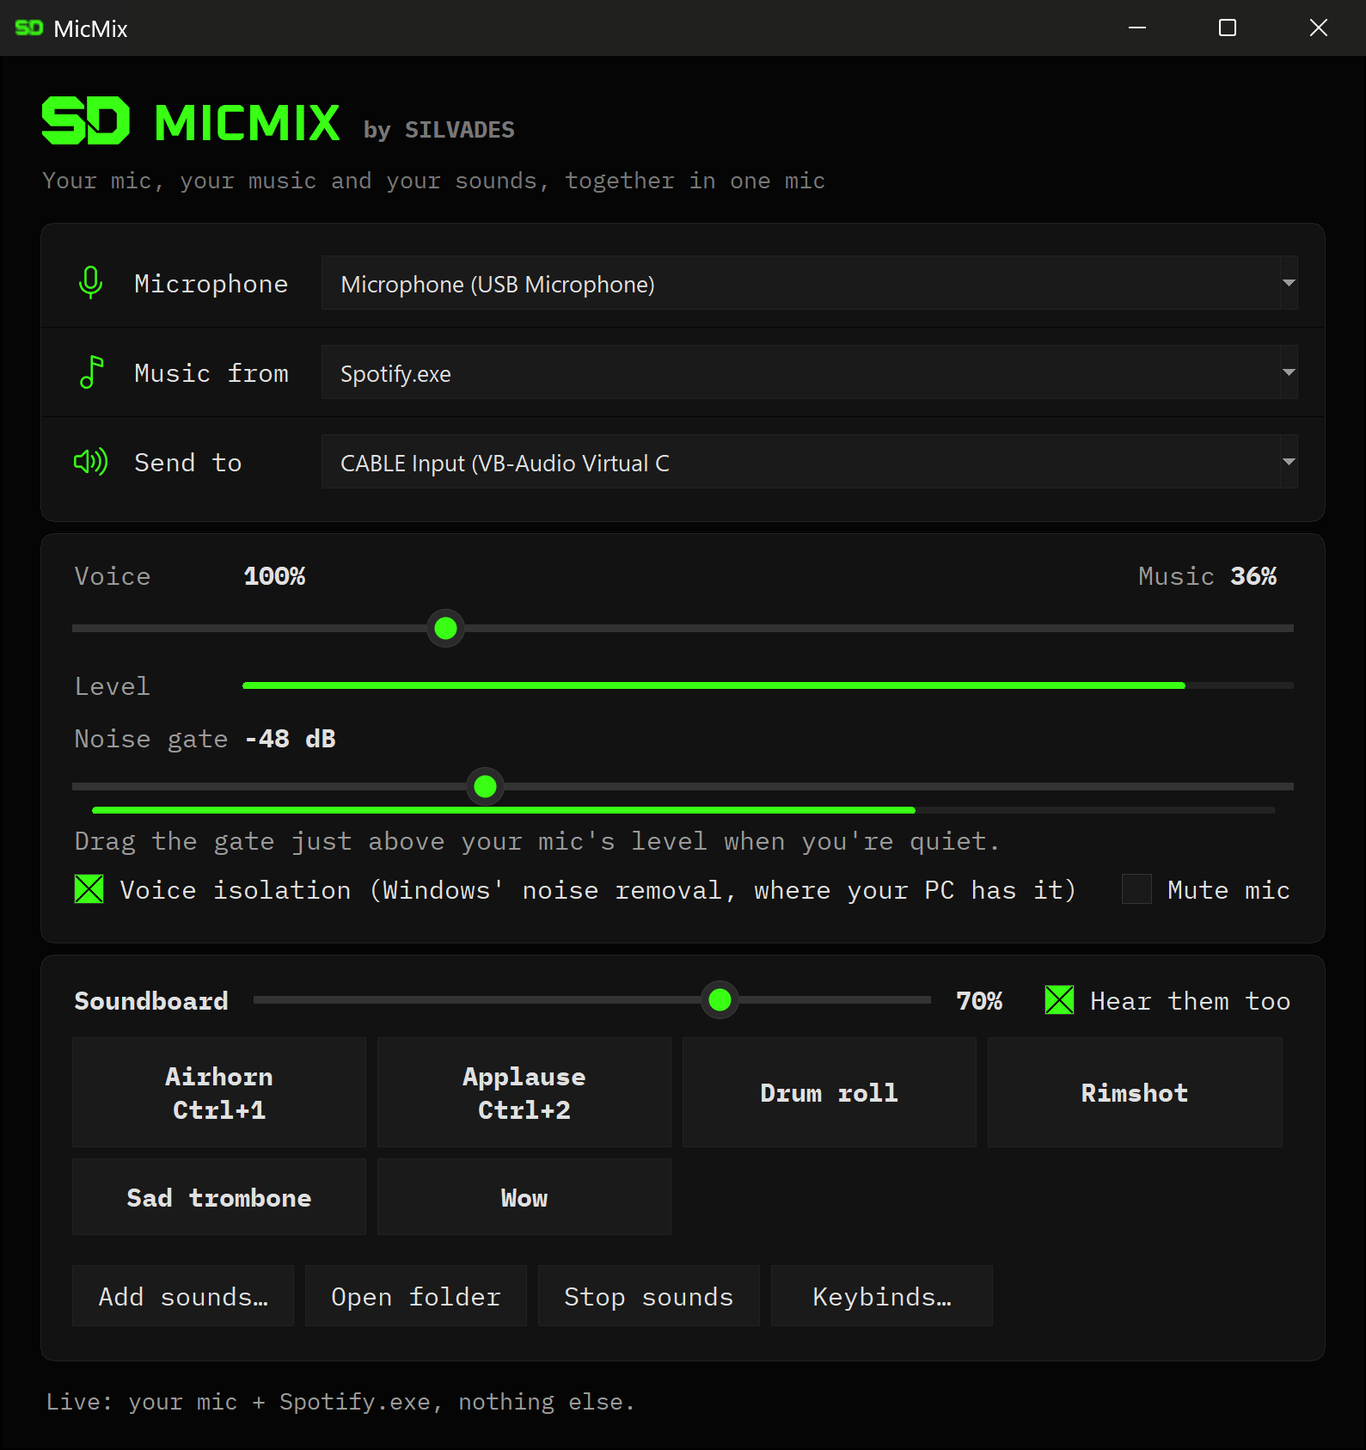
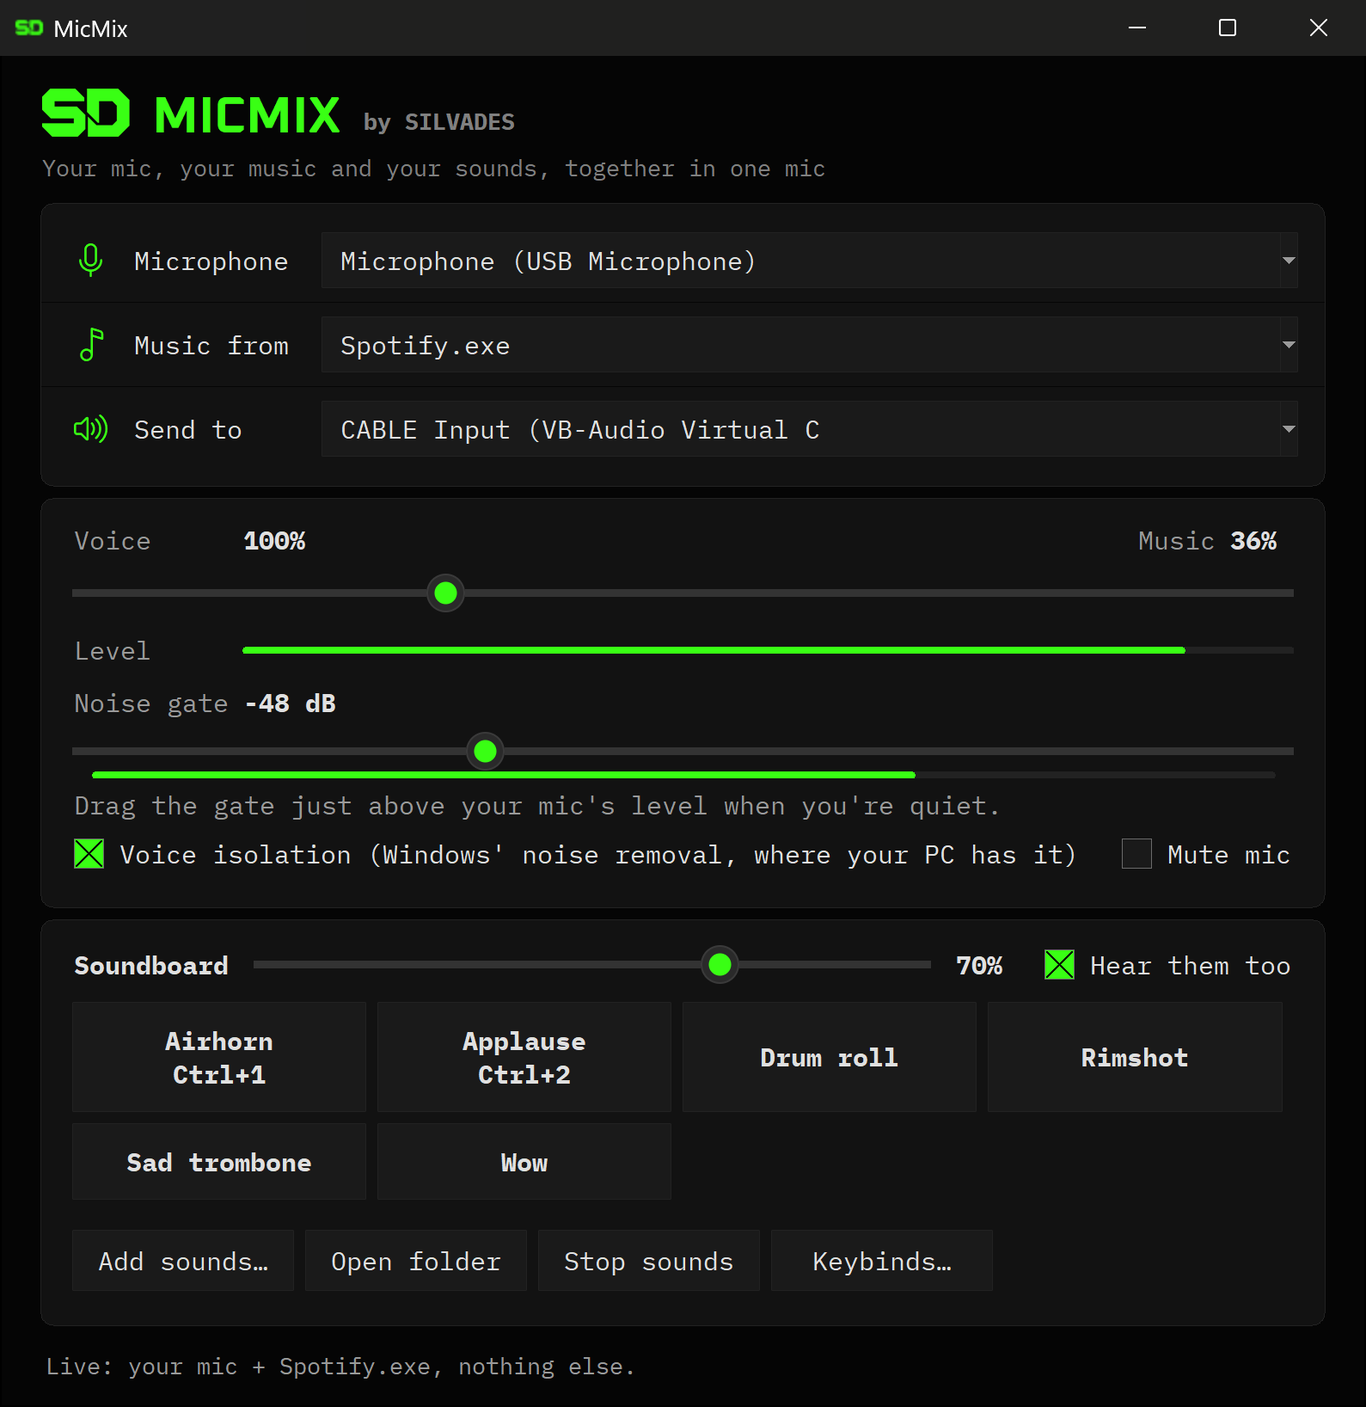
Final sweep: smooth sliders, a sturdier panel, music that comes back
Sliders
- A click on a slider's rail puts the thumb there and drags on from
  there. Tk stepped by 1 a click, which is the whole of a 0-1 slider,
  so it jumped to an end. Arrow keys now step 1% (Ctrl: 10%).
- The rail is one screen-wide image instead of a tiled 2 px one: a
  redraw takes ~2 ms instead of ~900 ms at 225%.

Sound
- When the Music from app closes, MicMix notices, says so, and takes
  its music in again a second or two after it starts (also when it
  wasn't running yet). The look runs off the sound thread.
- Music from = Send to (the cable became the default) drops the music
  and keeps the voice, instead of stopping everything.
- MicMix follows devices plugged in or out and Windows' default
  changing; unplugged picks stay picked and come back with the device.
- Stop sounds fades over one block instead of clicking.

Window, panel and tray
- Alt+F4 on the panel no longer wedges MicMix; Esc closes the panel;
  one error can no longer stop the 50 ms loop (keybinds, tray, Quit).
- The panel opens on the screen the icon is on, bottom-anchored, so it
  never shows under the taskbar first. Double-click the icon for the
  full window.
- The window keeps above the taskbar (fewer pad rows, moved up), and
  no longer flashes an empty box at start.
- Keybinds: rows no longer squeezed or cut off; Clear during Set no
  longer leaves a hidden capture armed.
- Dark scrollbars, visible checkbox edges, keyboard focus on checkboxes
[…]

diff --git a/audio.py b/audio.py
@@ -88,6 +88,7 @@ kernel32.CreateEventW.restype = w.HANDLE
 kernel32.CreateEventW.argtypes = [ctypes.c_void_p, w.BOOL, w.BOOL, w.LPCWSTR]
 kernel32.WaitForSingleObject.argtypes = [w.HANDLE, w.DWORD]
 kernel32.CloseHandle.argtypes = [w.HANDLE]
+kernel32.OpenProcess.argtypes, kernel32.OpenProcess.restype = [w.DWORD, w.BOOL, w.DWORD], w.HANDLE
 kernel32.CreateToolhelp32Snapshot.restype = w.HANDLE
 kernel32.CreateToolhelp32Snapshot.argtypes = [w.DWORD, w.DWORD]
 kernel32.Process32FirstW.argtypes = kernel32.Process32NextW.argtypes = [w.HANDLE, ctypes.POINTER(PROCESSENTRY32W)]
@@ -194,6 +195,8 @@ def app_pid(exe: str) -> int | None:
     loop back in."""
     procs, exe = processes(), exe.lower()
     named = lambda pid: procs.get(pid, ("",))[0].lower() == exe  # noqa: E731
+    if not any(map(named, procs)):  # not running: skip the slow look at sound sessions (the engine asks every 2 s)
+        return None
 
     def top(pid: int) -> int:
         for _ in range(64):  # bounded: a reused pid could make a loop
@@ -618,15 +621,16 @@ class Loopback:
     everything on an output device (source = its MME id, as OBS's Desktop Audio).
     Lives on the sound thread: COM is started for that thread here."""
 
-    def __init__(self, source: int | str):
+    def __init__(self, source: int | str, pid: int | None = None):
         ole32.CoInitializeEx(None, 0)  # multithreaded
-        self.client, self.capture = ctypes.c_void_p(), ctypes.c_void_p()
+        self.client, self.capture, self.app = ctypes.c_void_p(), ctypes.c_void_p(), None
         self.buf, self.flowing = bytearray(), False
         try:
             if isinstance(source, str):
-                pid = app_pid(source)
+                pid = pid or app_pid(source)
                 if pid is None:
-                    raise OSError(f"{source} isn't running. Start it, then pick it again")
+                    raise OSError(f"{source} isn't running")
+                self.app = kernel32.OpenProcess(0x100000, False, pid)  # SYNCHRONIZE: loopback never says it closed
                 self.client = app_client(pid)
             else:
                 self.client = device_client(source)
@@ -639,6 +643,8 @@ class Loopback:
 
     def block(self) -> bytes:
         """The next 20 ms. Silence while nothing plays: loopback then delivers nothing at all."""
+        if self.app and kernel32.WaitForSingleObject(self.app, 0) == 0:  # signalled: the app closed
+            raise OSError("the app closed")
         n, data, frames, flags = w.UINT(), ctypes.c_void_p(), w.UINT(), w.DWORD()
         next_packet(self.capture, ctypes.byref(n))
         while n.value:
@@ -665,6 +671,8 @@ class Loopback:
         for obj in (self.capture, self.client):
             if obj:
                 release(obj)
+        if self.app:
+            kernel32.CloseHandle(self.app)
         ole32.CoUninitialize()
 
 
@@ -678,16 +686,25 @@ class Engine(threading.Thread):
     """Mic in (through the gate), music and soundboard on top, out to Send to; the sounds also to monitor, your own
     headphones, when there is one. The mic's clock paces it all."""
 
-    def __init__(self, shared: SimpleNamespace, mic: int, out: int, music: int | str | None, monitor: int | None,
-                 isolate: bool = False):
+    def __init__(self, shared: SimpleNamespace, mic: int | None, out: int, music: int | str | None,
+                 monitor: int | None, isolate: bool = False):
         super().__init__(daemon=True)
         self.shared, self.devs, self.running, self.error, self.warning = shared, (mic, out, music, monitor), True, "", ""
-        self.isolate = isolate
+        self.isolate, self.found = isolate, None
         self.start()
 
     def note(self, text: str) -> None:
         """Add to what the status line says: one fallback doesn't hide another."""
         self.warning = " ".join(filter(None, (self.warning, text)))
+
+    def unnote(self, text: str) -> None:
+        """Take a note back once it no longer holds."""
+        self.warning = " ".join(self.warning.replace(text, "").split())
+
+    def look(self, exe: str) -> None:
+        """Whether the Music from app runs now. On its own thread: a look at every process takes ~40 ms with a thousand
+        of them, and the sound has only ~40 ms queued."""
+        self.found = app_pid(exe)
 
     def run(self) -> None:
         mic = out = music = monitor = None
@@ -696,14 +713,17 @@ class Engine(threading.Thread):
         with contextlib.suppress(queue.Empty):  # pad presses made while nothing ran must not all play at once now
             while True:
                 s.clips.get_nowait()
+        lost = ""  # what the status line says while the music is missing
         try:
-            if music_src == out_dev:
-                raise OSError("Music from is the device you send to, so the mix would loop into itself. If the "
-                              "cable became your Windows default output, set your headphones back as the default.")
+            if music_src == out_dev:  # it would loop into itself: no music, but the voice goes on
+                music_src = None
+                self.note("Live: your mic only. Music from is the device you send to, so the mix would loop into "
+                          "itself. If the cable became your Windows default output, set your headphones back as the "
+                          "default.")
             names = devices("waveIn")
             if all(map(is_cable, names)):  # none at all, or only the cable
                 raise OSError("No microphone found. Plug one in, then pick it under Microphone.")
-            if mic_dev >= len(names):
+            if mic_dev is None or mic_dev >= len(names):
                 raise OSError("Your microphone is gone (unplugged?). Plug it back in, then pick it under Microphone.")
             if is_cable(names[mic_dev]):
                 raise OSError("Microphone is the cable, so the mix would loop into itself. If the cable became your "
@@ -718,13 +738,14 @@ class Engine(threading.Thread):
             try:
                 music = None if music_src is None else Loopback(music_src)
             except OSError as e:  # no music is no reason to cut the voice
-                self.note(f"Live: your mic only. {e}.")
+                lost = f"Live: your mic only. {e}." + (" It comes in once it runs." if isinstance(music_src, str) else "")
+                self.note(lost)
             if music and music_src == monitor_dev:  # music takes your headphones whole: it would carry the sounds
                 self.note("Live. Hear them too is off while Music from is your headphones.")  # into the mix twice
             elif monitor_dev is not None and monitor_dev != out_dev:
                 with contextlib.suppress(OSError):  # hearing your own sounds is a nicety, never a reason to stop
                     monitor = Speaker(monitor_dev, "Your headphones")
-            gate, playing, stalls = Gate(), [], 0
+            gate, playing, stalls, ticks = Gate(), [], 0, 0
             last = (0.0 if s.muted else s.gain[0]), s.gain[1], s.board  # gains fade from block to block: no clicks
             while self.running:
                 voice = mic.read()
@@ -734,14 +755,24 @@ class Engine(threading.Thread):
                         raise OSError("The microphone stopped sending sound (unplugged?). Plug it back in, then "
                                       "pick it again.")
                     continue
-                stalls = 0
+                stalls, ticks = 0, ticks + 1
+                if not music and isinstance(music_src, str):  # the app isn't running: look for it every 2 s
+                    if self.found:  # a look found it
+                        with contextlib.suppress(OSError):
+                            music = Loopback(music_src, self.found)
+                            self.unnote(lost)
+                        self.found = None
+                    elif ticks % 100 == 0:
+                        threading.Thread(target=self.look, args=(music_src,), daemon=True).start()
                 try:
                     tune = music.block() if music else SILENCE
                 except OSError:
                     music.close()
                     music, tune = None, SILENCE
-                    self.note("Live: your mic only. The music stopped (app closed or device unplugged): pick it "
-                              "again under Music from.")
+                    lost = (f"Live: your mic only. {music_src} closed. Its music comes back when it runs again."
+                            if isinstance(music_src, str) else
+                            "Live: your mic only. The music stopped (device unplugged?): pick it again under Music from.")
+                    self.note(lost)
                 level = peak(voice)
                 g0, g1 = gate.step(level, s.gate)
                 now = (0.0 if s.muted else s.gain[0]), s.gain[1], s.board
@@ -771,17 +802,20 @@ class Engine(threading.Thread):
     def sounds(playing: list, s: SimpleNamespace, b0: float | None = None, b1: float | None = None) -> bytes | None:
         """The soundboard's next 20 ms, at a volume going from b0 to b1 (default: the board's), or None when nothing
         plays. playing: [pcm, position] pairs."""
+        fading = []  # stopped mid-play: they fade out over this block, so Stop doesn't click
         with contextlib.suppress(queue.Empty):
             while True:
                 clip = s.clips.get_nowait()
                 if clip == STOP:
+                    fading += [p for p in playing if p[1]]  # one that never started just goes
                     playing.clear()
                 else:
                     playing.append([clip, 0])
-        if not playing:
+        if not playing and not fading:
             return None
         b0, b1 = s.board if b0 is None else b0, s.board if b1 is None else b1
         parts = [(pcm[at:at + BLOCK].ljust(BLOCK, b"\0"), b0, b1) for pcm, at in playing]
+        parts += [(pcm[at:at + BLOCK].ljust(BLOCK, b"\0"), b0, 0.0) for pcm, at in fading]
         for p in playing:
             p[1] += BLOCK
         playing[:] = [p for p in playing if p[1] < len(p[0])]

diff --git a/test_micmix.py b/test_micmix.py
@@ -1,6 +1,9 @@
 """MicMix's math and the choices around it, without any device. From this folder: py -m unittest test_micmix"""
+import tempfile
+import time
 import unittest
 from array import array
+from pathlib import Path
 from unittest import mock
 
 import audio
@@ -51,6 +54,12 @@ class Mixing(unittest.TestCase):
         s.clips.put(clip)
         s.clips.put(audio.STOP)
         self.assertIsNone(audio.Engine.sounds(playing, s))  # Stop sounds silences everything
+        s.clips.put(clip)
+        audio.Engine.sounds(playing, s)
+        s.clips.put(audio.STOP)  # mid-play: one block that fades to nothing, so it doesn't click
+        faded = array("h", audio.Engine.sounds(playing, s))
+        self.assertEqual((faded[0], faded[-1]), (500, 0))
+        self.assertIsNone(audio.Engine.sounds(playing, s))
 
 
 class Choices(unittest.TestCase):
@@ -66,13 +75,14 @@ class Choices(unittest.TestCase):
         self.assertFalse(audio.is_app("Headphones (Headset)"))
 
     def test_voice_survives_the_music_failing(self):
-        sent, reads = [], iter([bytes(audio.BLOCK)] * 3)
+        sent, reads, opened = [], iter([bytes(audio.BLOCK)] * 3), []
 
         class FakeDevice:
             def __init__(self, *_):
                 pass
 
             def read(self):
+                time.sleep(0.0005)  # time for the engine's look for the app, on its own thread
                 return next(reads)  # three blocks, then StopIteration ends the engine
 
             def write(self, data):
@@ -84,12 +94,37 @@ class Choices(unittest.TestCase):
         def no_music(source):
             raise OSError(f"Music from: {source} isn't running")
 
+        def late_music(source, pid=None):  # not running at first, then started
+            opened.append(pid)
+            if len(opened) == 1:
+                no_music(source)
+            return mock.Mock(block=lambda: bytes(audio.BLOCK))
+
         with mock.patch.multiple(audio, Mic=FakeDevice, Speaker=FakeDevice, Loopback=no_music,
                                  devices=lambda io: ["Mic"]):
             engine = audio.Engine(audio.shared_state(), 0, 1, "Spotify.exe", None)
             engine.join(2)
-        self.assertEqual(len(sent), 3)  # the voice kept going
-        self.assertIn("your mic only", engine.warning)
+            self.assertEqual(len(sent), 3)  # the voice kept going
+            self.assertIn("your mic only", engine.warning)
+            reads = iter([bytes(audio.BLOCK)] * 3)
+            engine = audio.Engine(audio.shared_state(), 0, 1, 1, None)  # Music from = Send to: it'd loop
+            engine.join(2)
+            self.assertEqual(len(sent), 6)  # the voice still goes, without the music
+            self.assertIn("loop", engine.warning)
+            reads = iter([bytes(audio.BLOCK)] * 201)
+            with mock.patch.object(audio, "Loopback", late_music), mock.patch.object(audio, "app_pid", lambda exe: 42):
+                engine = audio.Engine(audio.shared_state(), 0, 1, "Spotify.exe", None)
+                engine.join(5)
+            self.assertEqual((opened, engine.warning), ([None, 42], ""))  # found a few s later; the status says so
+
+    def test_bad_settings_are_kept_aside(self):
+        with tempfile.TemporaryDirectory() as folder, mock.patch.object(micmix, "SETTINGS",
+                                                                         Path(folder) / "micmix.json"):
+            micmix.SETTINGS.write_text('{"fade": 0.4}', encoding="utf-8-sig")  # with a BOM, as Notepad saves
+            self.assertEqual(micmix.load(), {"fade": 0.4})
+            micmix.SETTINGS.write_text('{"fade": 0.4,}', encoding="utf-8")  # one comma too many
+            self.assertEqual(micmix.load(), {})
+            self.assertTrue((Path(folder) / "micmix.json.bad").is_file())  # not saved over
 
     def test_brand_assets_ship(self):
         for name in ("micmix.ico", "sd-28.png", "sd-40.png", "sd-56.png", "fonts/Oxanium.ttf", "fonts/OFL-Oxanium.txt",

diff --git a/README.md b/README.md
@@ -4,7 +4,7 @@ Talk, play music and fire off sounds into Discord through one microphone. MicMix
 
 ![MicMix](docs/micmix.png)
 
-Click its icon by the clock and a small panel pops up there, as Twinkle Tray's does: the voice/music slider, the level, Mute, Voice isolation and your first sounds.
+Click its icon by the clock and a small panel pops up there, as Twinkle Tray's does: the voice/music slider, the level, Mute, Voice isolation and your first sounds. Double-click the icon for the full window.
 
 ![The tray panel](docs/flyout.png)
 
@@ -43,22 +43,22 @@ In Discord, open **User Settings**, then **Voice & Video**:
 - **Microphone:** the mic you talk into. If you use NVIDIA Broadcast, you can pick its mic instead to keep its noise removal on your voice.
 - **Music from:** the app your music plays in. Only that app goes in. A browser goes in with all its tabs, so don't pick the browser you run Discord in. The list shows apps that have sound open, as Windows' volume mixer does, so start playing if yours is missing. Below the apps are whole output devices, which take everything playing on that device (like OBS's Desktop Audio). If you pick one, keep Discord's output on a different device, or people hear themselves echo back.
 - **Send to:** CABLE Input. MicMix picks it by itself once VB-CABLE is installed.
-- **Slider:** left is voice only, the middle is both at full, and right is music only. Music under your voice usually sits around 10 to 20%.
+- **Slider:** left is voice only, the middle is both at full, and right is music only. Music under your voice usually sits around 10 to 20%. Click anywhere on a slider to put it there, then drag on if you like. The arrow keys move a selected slider 1% at a time, or 10% with Ctrl.
 - **Level:** what Discord gets: your voice, the music and your sounds together. If it keeps touching the right end, the sound distorts, so turn the music or the soundboard down.
 - **Voice isolation:** opens your mic the way speech apps do, so Windows can clean it up with its own noise removal (Voice Clarity on recent Windows 11, or your mic driver's). Not every PC has either, and Windows doesn't say which happened. To check, stay quiet with some room noise (a fan, typing) and watch the bar under the noise gate, then tick Voice isolation. If the bar drops, it's working; if not, leave it off. If Windows refuses the mic this way outright, MicMix says so and uses the plain mic.
 - **Noise gate:** mutes your mic between words, so keyboard clicks and room noise stay out. The bar under the gate's slider is your mic's level. Drag the gate just above where that bar sits while you're quiet. The bar turns grey while the gate is shut. All the way left turns the gate off.
 - **Mute mic:** silences your voice. Music and sounds keep playing.
 - **Soundboard:** click **Add sounds…** (MP3, WAV, M4A, WMA, FLAC; up to 10 minutes each) or drop files into the folder that **Open folder** shows. Click a pad to play it into your mic. **Hear them too** plays them in your own headphones as well, except while Music from is those headphones. The slider next to Soundboard sets their volume, and **Stop sounds** silences them.
 - **Keybinds…:** set keys for mute, music on or off, music up and down (5% steps; up stops once music is full), stop sounds, and each sound. Click **Set**, then press the keys. Keys that type (letters, digits, Space) need Ctrl or Alt with them; F1 to F24 and the number pad work alone. Keybinds work in any app, games included. A key another app already holds shows "(another app has it)".
-- **Closing the window** keeps MicMix running from its icon in the notification area, by the clock. Windows hides new icons at first: click the **^** arrow by the clock to find it, and drag it next to the clock to keep it in sight. Click the icon for the pop-up panel (click away, or on the icon again, to close it). Its **Open MicMix** button opens the full window. Right-click the icon to mute your mic, stop sounds, or **Quit MicMix**. Opening MicMix from the Start menu also brings the full window back.
+- **Closing the window** keeps MicMix running from its icon in the notification area, by the clock. Windows hides new icons at first: click the **^** arrow by the clock to find it, and drag it next to the clock to keep it in sight. Click the icon for the pop-up panel (click away, press Esc, or click the icon again to close it). Its **Open MicMix** button, or a double-click on the icon, opens the full window. Right-click the icon to mute your mic, stop sounds, or **Quit MicMix**. Opening MicMix from the Start menu also brings the full window back.
 - **Taskbar:** MicMix shows up as its own app. To keep it there, right-click its taskbar button while it's open and choose **Pin to taskbar**.
 - **Stop:** right-click the MicMix icon by the clock (under **^** if it's hidden) and choose **Quit MicMix**. Discord then hears silence, so for calls without MicMix, set Discord's Input Device back to your real mic.
 
-MicMix saves your picks and keybinds in `micmix.json` and your sounds in `sounds\`, next to the app. If the music app isn't running, or its sound stops, MicMix keeps sending your voice and says so in its status line.
+MicMix saves your picks and keybinds in `micmix.json` and your sounds in `sounds\`, next to the app. If the music app isn't running yet, or closes, MicMix keeps sending your voice, says so in its status line, and takes the music in again a second or two after the app starts. It also follows your devices: plug a headset in or out, or change Windows' default device, and MicMix opens the right ones again within a second.
 
 ## Troubleshooting
 
-- **No music in Discord.** Check that the app is playing. Turn off "exclusive mode" if your music app has it (TIDAL and foobar2000 do): it bypasses the Windows mixer, so nothing can capture the sound. If you restarted the music app, pick it again under Music from.
+- **No music in Discord.** Check that the app is playing. Turn off "exclusive mode" if your music app has it (TIDAL and foobar2000 do): it bypasses the Windows mixer, so nothing can capture the sound.
 - **No sound on your PC since installing VB-CABLE, or the music echoes in Discord.** Windows is playing into the cable. Press **Win+R**, type `mmsys.cpl` and press Enter. Right-click your real headphones or speakers, then choose **Set as Default Device** and **Set as Default Communication Device**. Do the same for your mic on the Recording tab.
 - **"...would loop into itself."** The cable became one of your Windows default devices. Fix it the same way.
 - **Discord hears nothing.** Discord's Input Device must be CABLE Output, and MicMix must be running.
